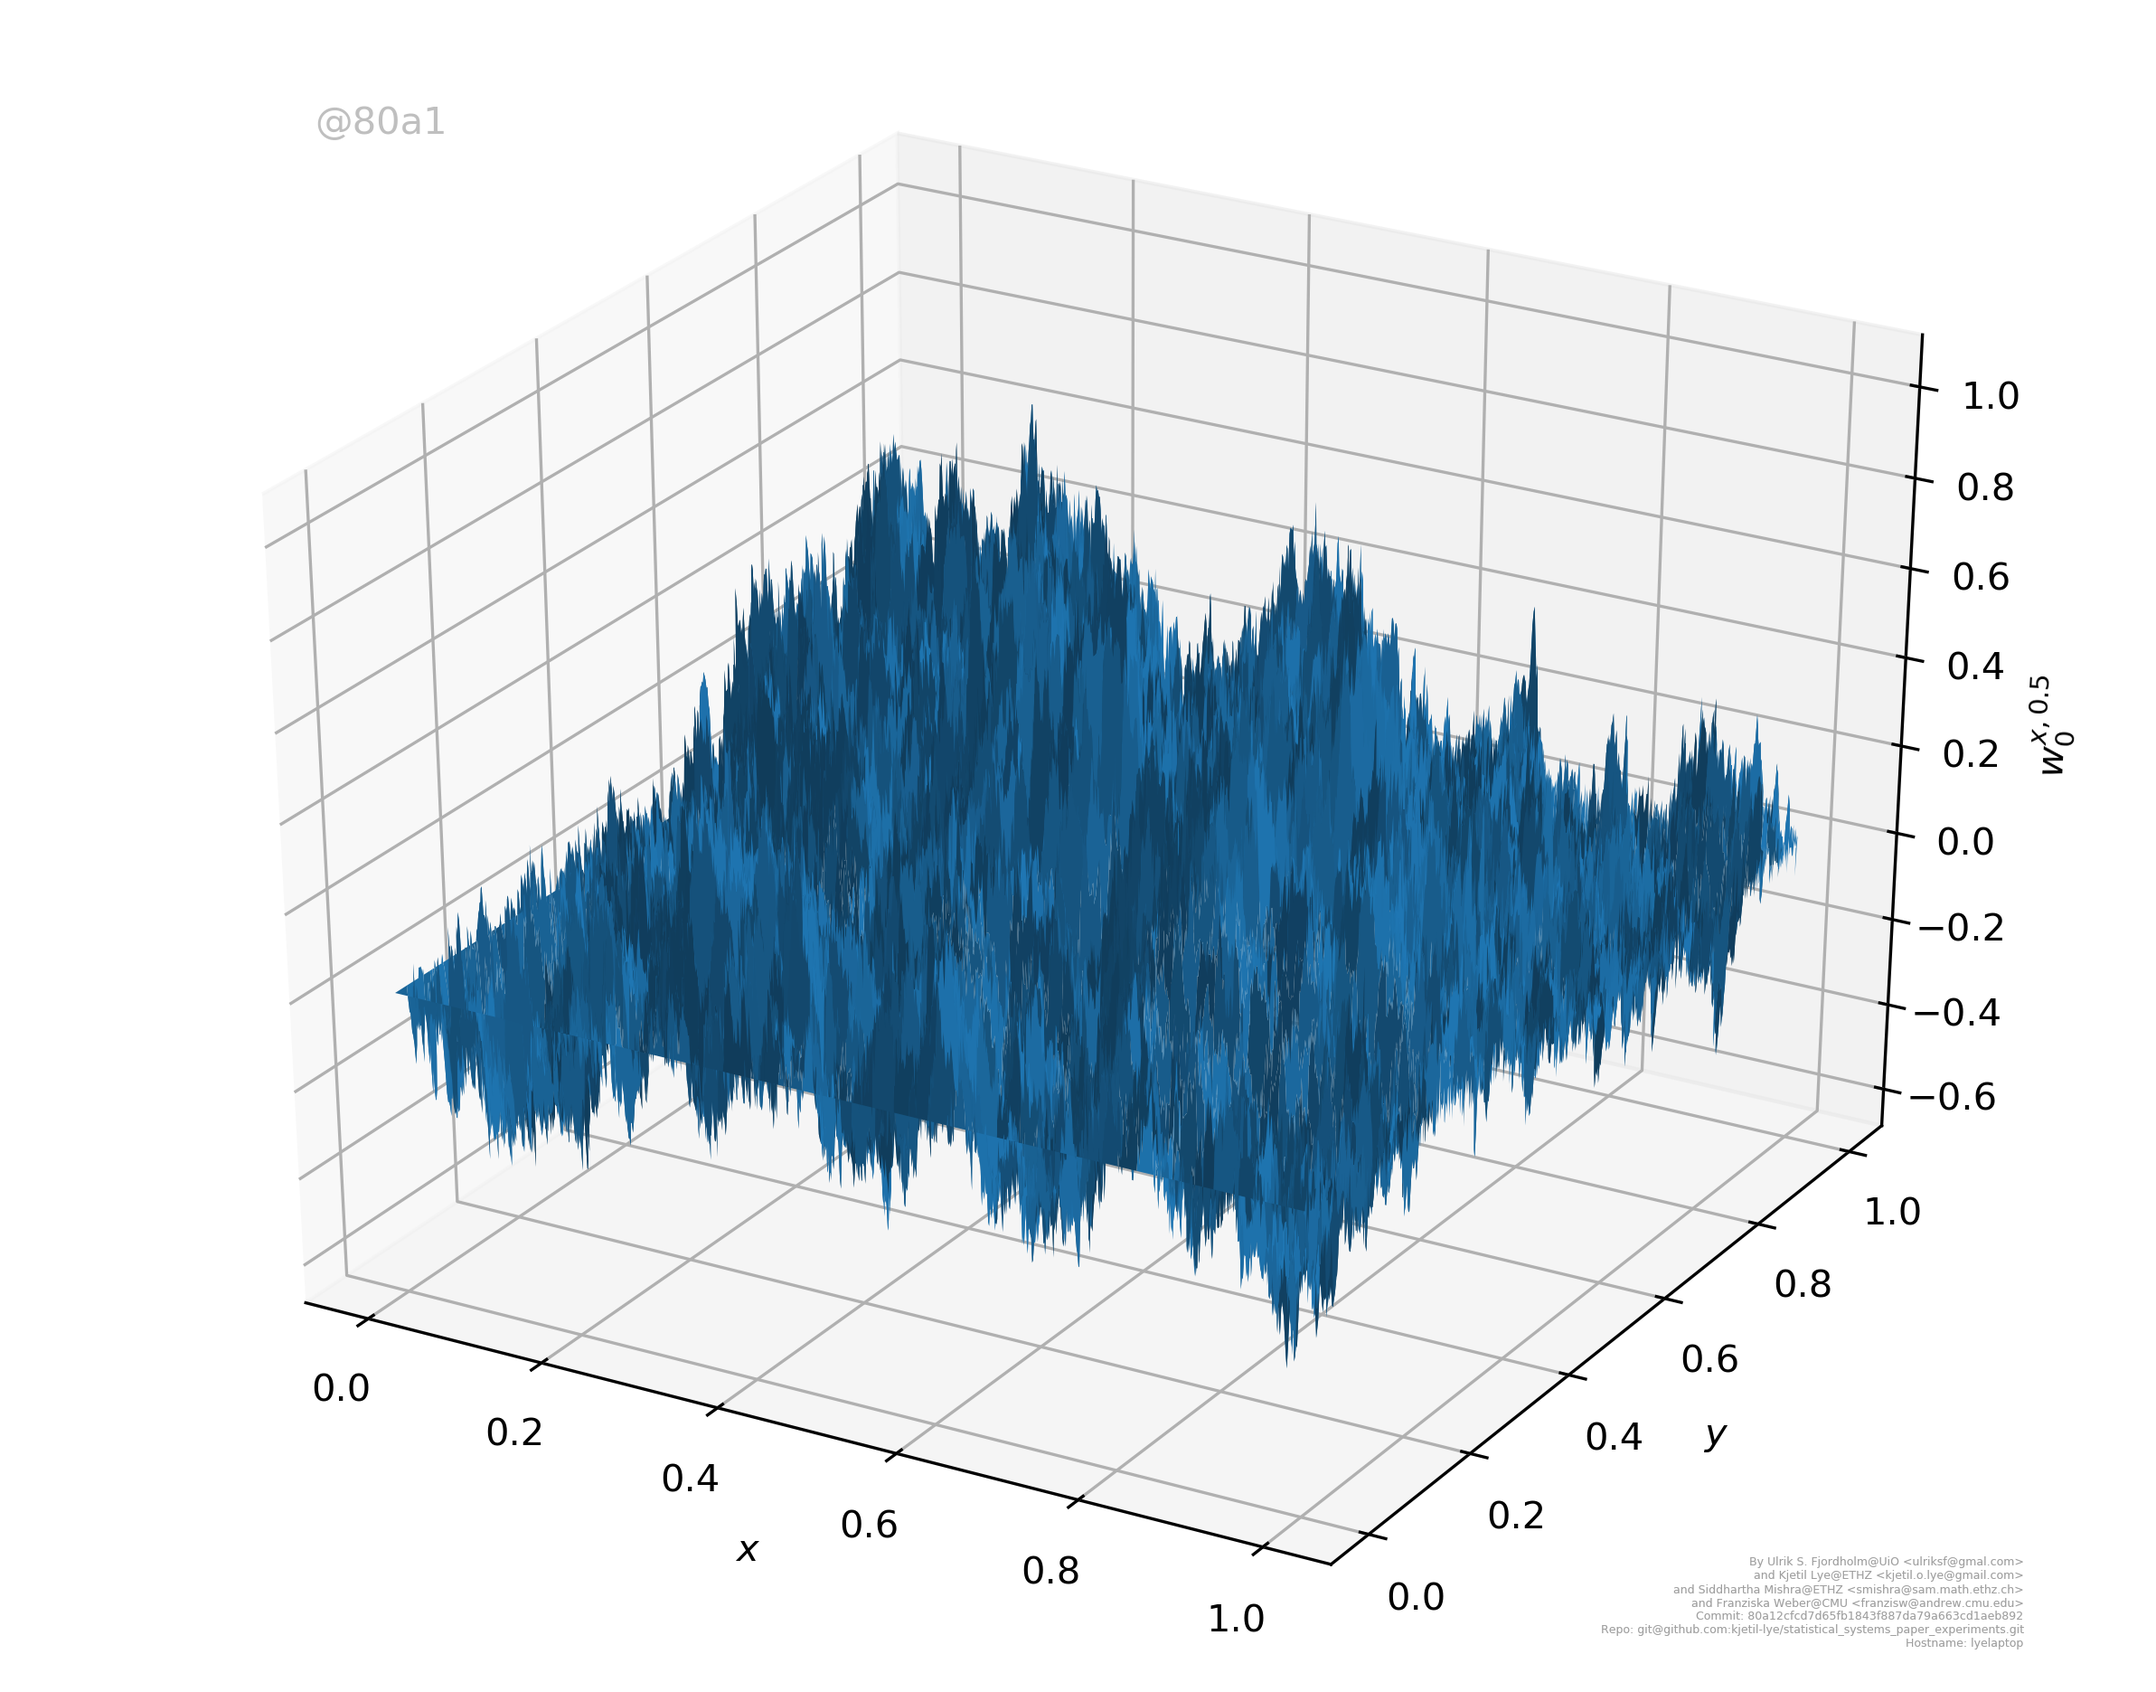
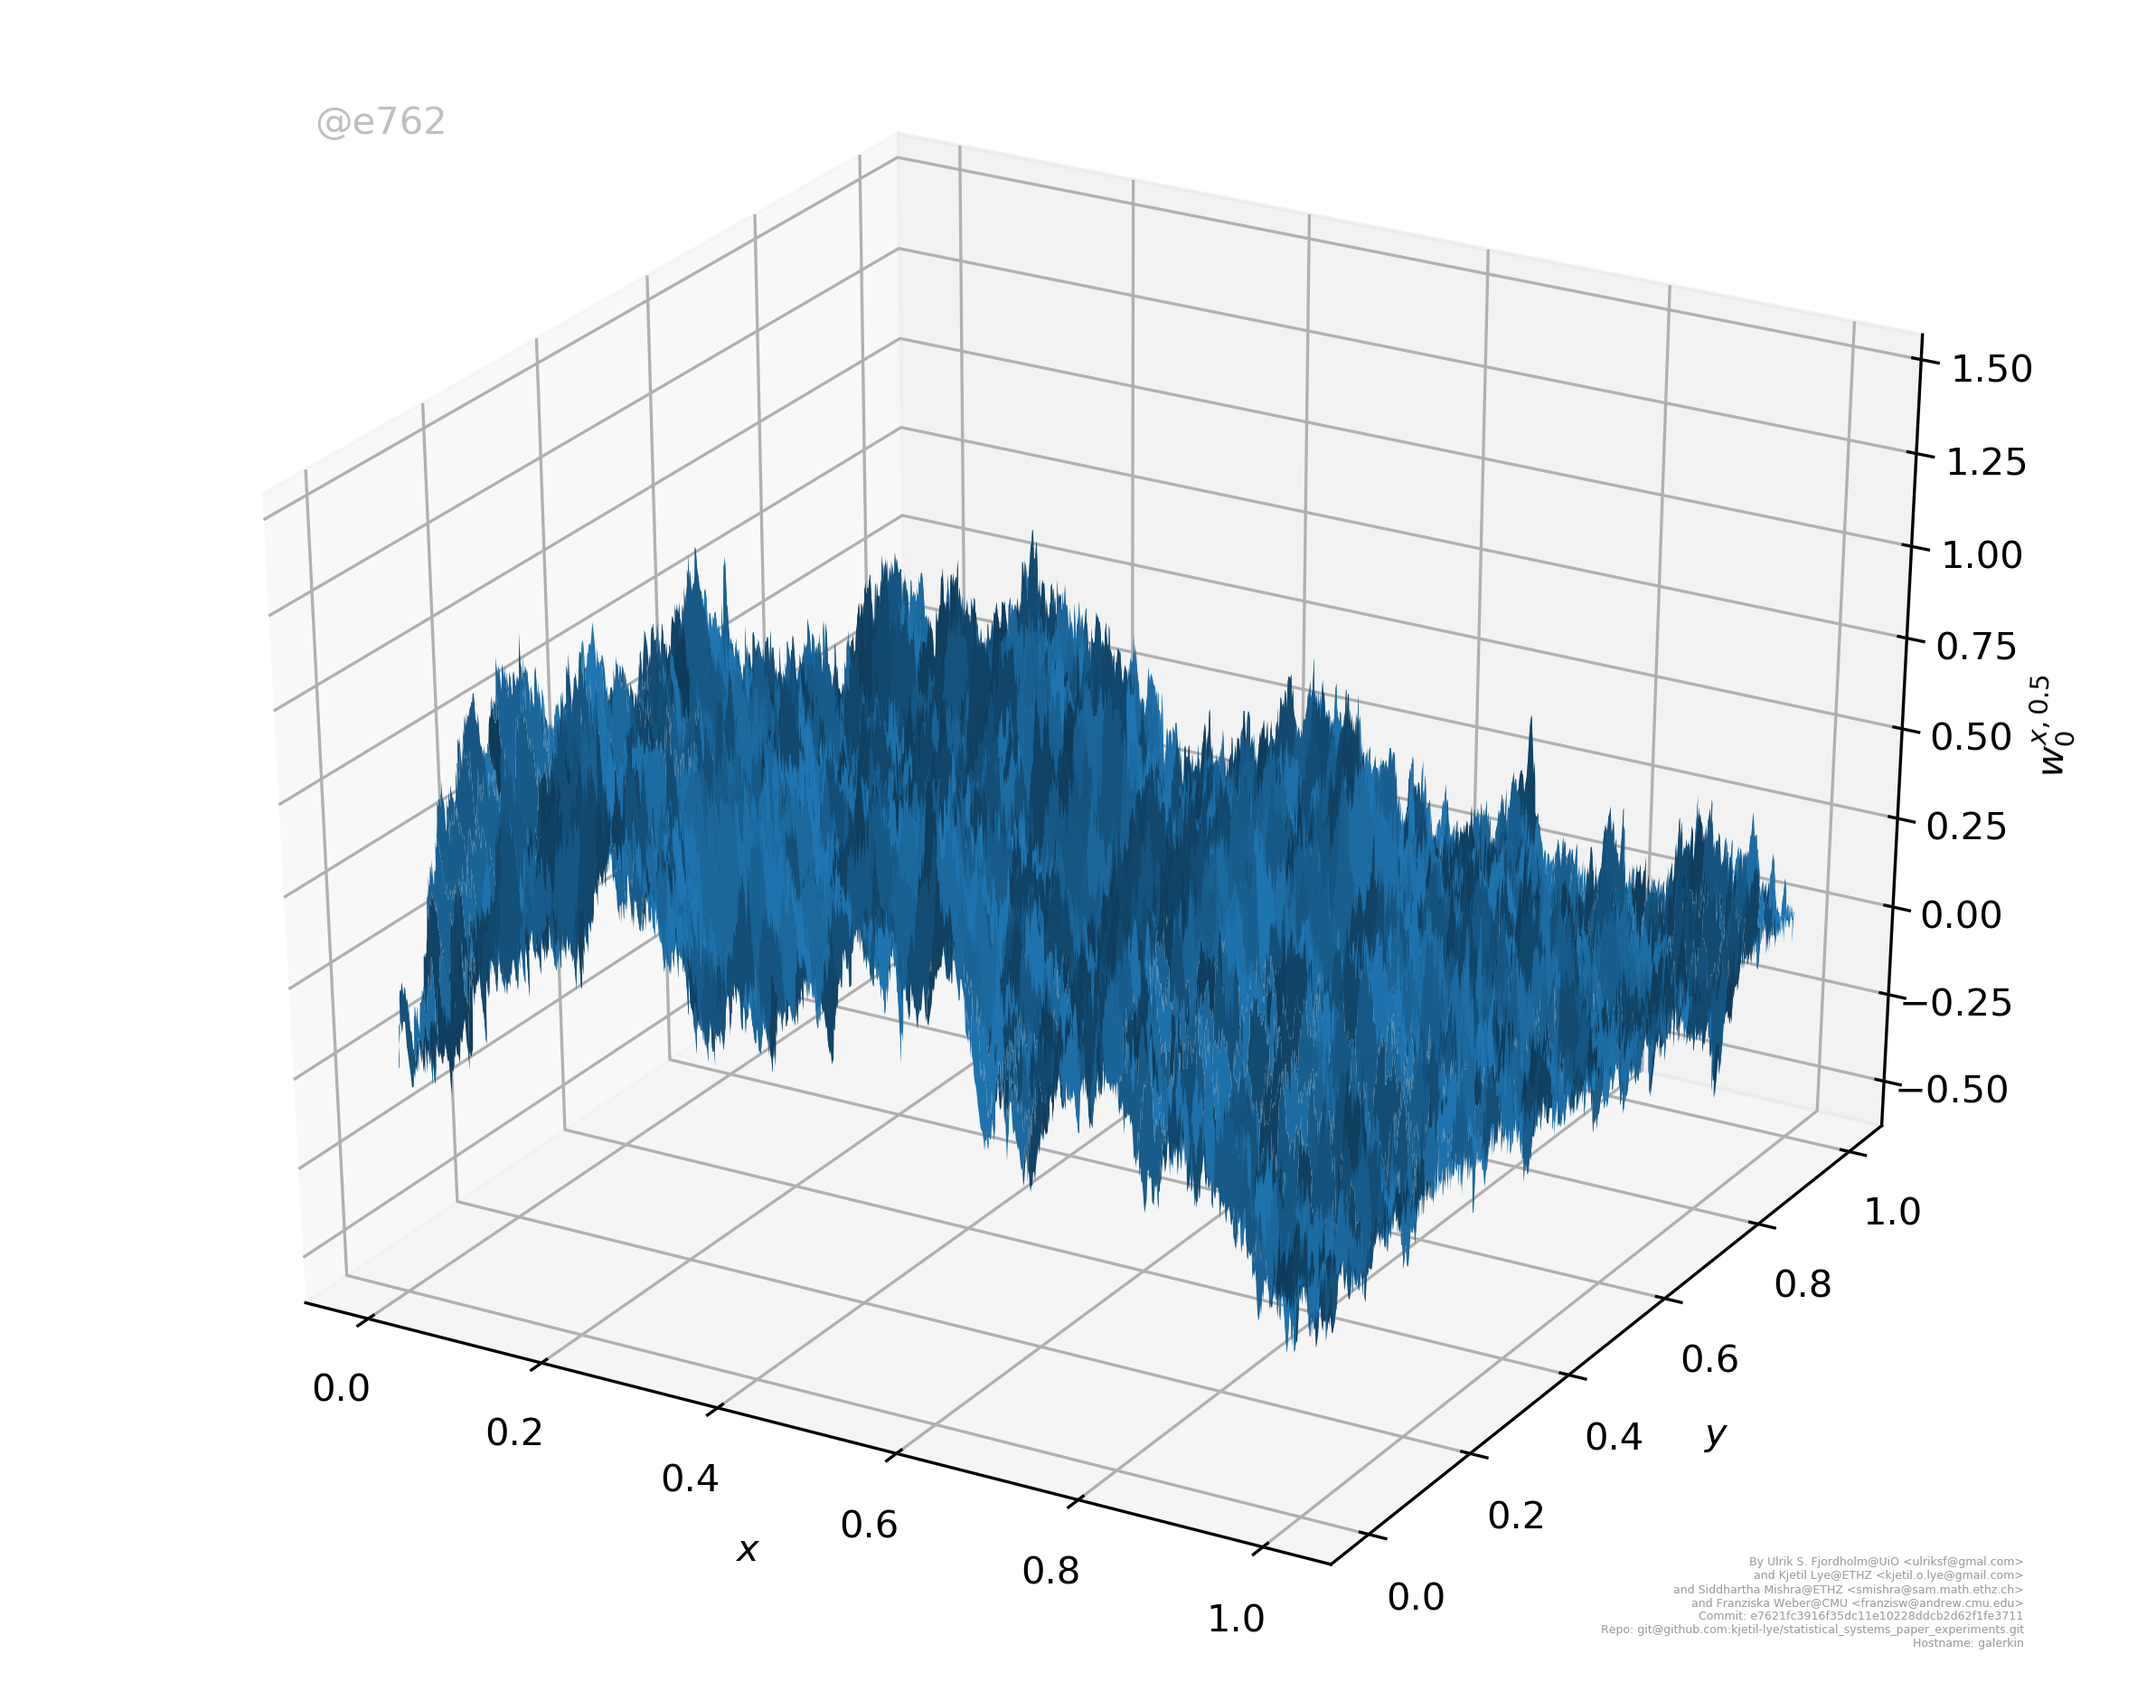
fixed brownian motion plot

diff --git a/notebook/fbm/euler_brownian.py b/notebook/fbm/euler_brownian.py
@@ -60,11 +60,6 @@ def fBm(N, H, rand):
                 d[iCenter, jCenter] = 1.0/4.0*(d[iLeft,jLeft]+d[iLeft,jRight] \
                                               +d[iRight,jLeft]+d[iRight,jRight]) \
                                               +variancefBm(H,n)*rand()
-        for i in range(0,N):
-            d[i, 0] = 0
-            d[0, i] = 0
-            d[i, -1] = 0
-            d[-1, i] = 0
         return d
 
 
